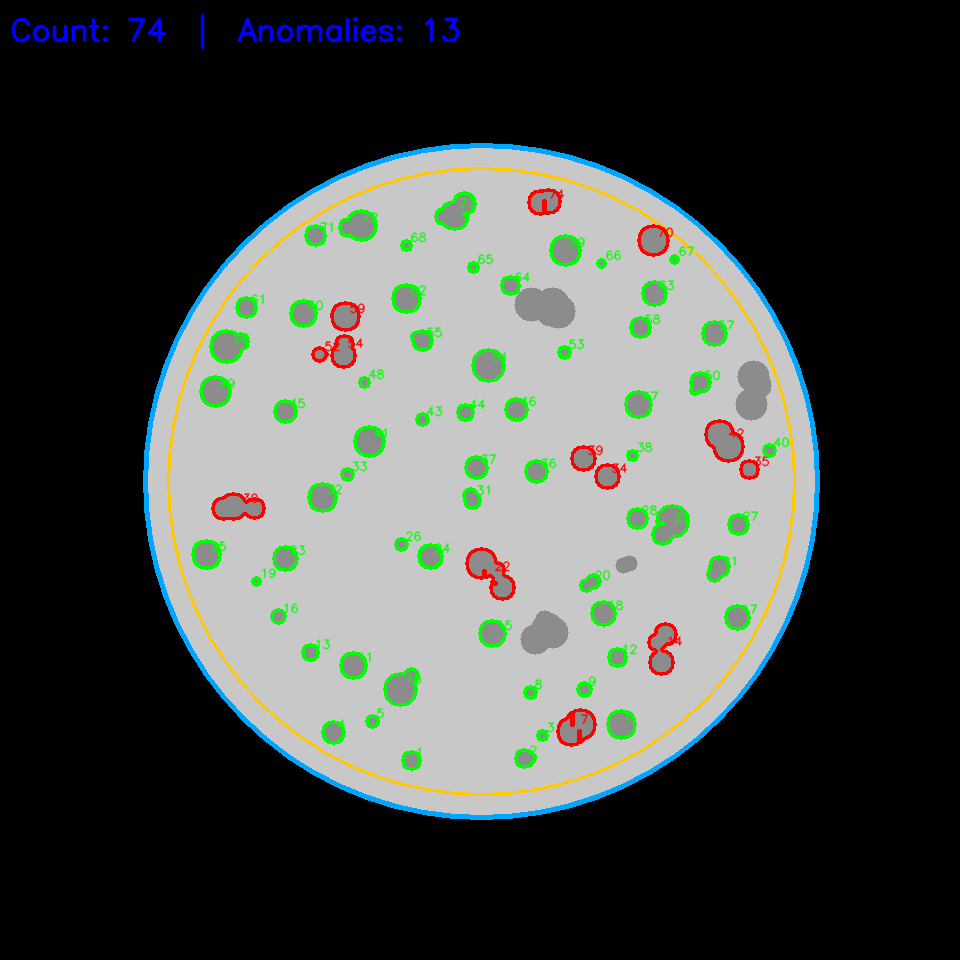
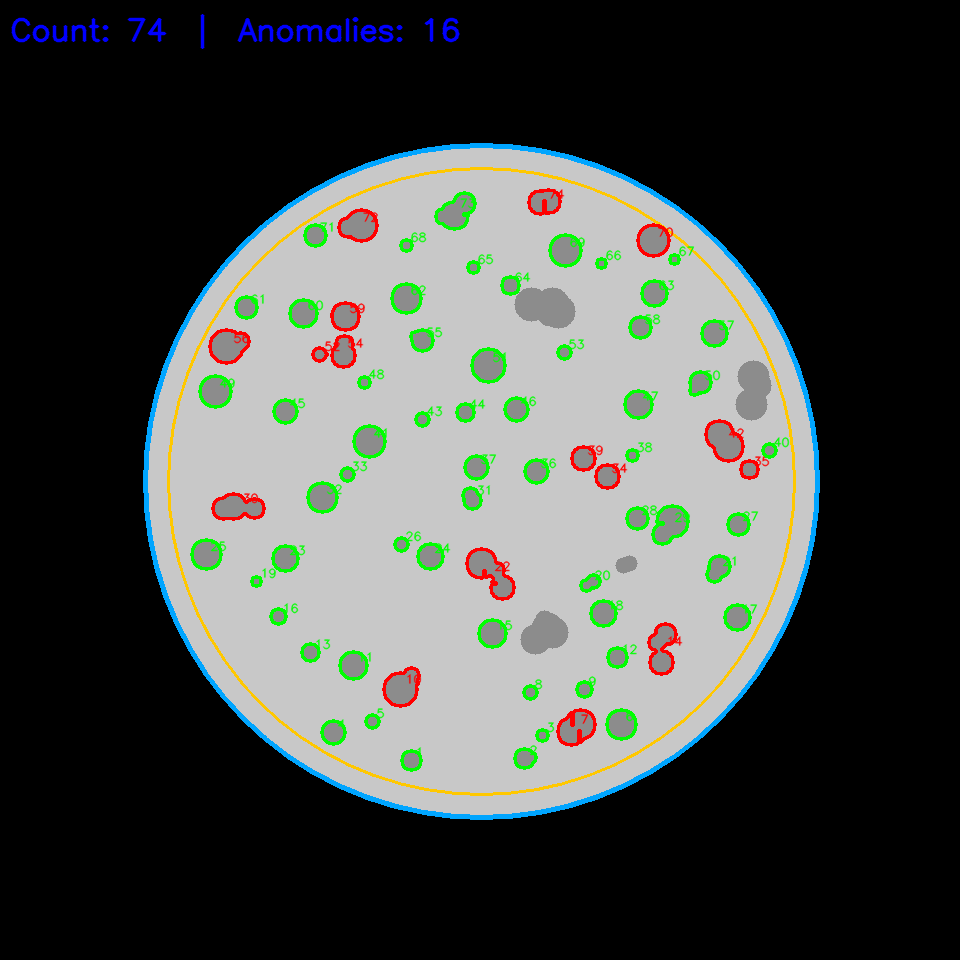
fix(pipeline): restore isolated-colony area accuracy, fix CI regression
testing.continuous's Track 1 CI check (separate from testing/blind_eval —
it scores per-colony area accuracy, which blind_eval doesn't) started
failing on one of 16 matrix scenarios after the blind-validation merge:
iteration 2's local-maxima watershed markers give isolated colonies a
single-pixel-ish seed instead of the old broader region, and cv2.watershed
growing that smaller seed across the real image's gradients converges to a
measurably smaller final boundary (~10% undersized) even with no touching
neighbor to split from.

Fix: a blob only gets the tight peak-point marker if it has 2+ local-maxima
peaks (i.e. might actually be touching colonies to split); single-peak
blobs get their marker expanded to the full pre-watershed blob extent,
restoring the old area-accurate behavior where there was never anything to
split. Verified on the failing scenario: 14.05% mean area error, better
than both the regression (38.5%) and the original pre-session code (34.4%)
— a net improvement, not just a threshold patch. Full local 16-scenario CI
matrix now passes 16/16 (was 15/16).

This also touches the same isolated-vs-touching classification the whole
blind-validation loop was built on, so those numbers move slightly too:
overall F1 0.877 -> 0.869, recall 0.781 -> 0.769, pass/fail pattern (3
pass, 2 fail) unchanged. iteration_log.md documents this as its own
dated entry rather than silently editing history; blind_eval_results,
[…]

diff --git a/quantify.py b/quantify.py
@@ -302,7 +302,7 @@ def _apply_watershed(image: np.ndarray,
                               regions (e.g. stage-by-stage figure export).
     """
     # Label connected components BEFORE watershed (touching-colony detection).
-    _, pre_watershed_labels = cv2.connectedComponents(cleaned)
+    num_blobs, pre_watershed_labels = cv2.connectedComponents(cleaned)
 
     k = np.ones((3, 3), np.uint8)
     dist_transform = cv2.distanceTransform(cleaned, cv2.DIST_L2, 5)
@@ -321,10 +321,29 @@ def _apply_watershed(image: np.ndarray,
     is_peak &= dist_transform > 0
     peak_labels, _ = ndi.label(is_peak)
 
-    sure_bg = cv2.dilate(cleaned, k, iterations=3)
-    unknown = cv2.subtract(sure_bg, (peak_labels > 0).astype(np.uint8) * 255)
+    # A single-peak-per-marker seed is a single point (or tiny cluster) —
+    # exactly what's needed to split a multi-colony blob, but for a blob
+    # that's already just one colony it gives cv2.watershed's flood-fill (on
+    # the real image, following its own gradients, not the binary mask) a
+    # much smaller starting basin than the old single blob-wide threshold
+    # did, which measurably undersizes the final contour (~10% smaller area
+    # on isolated colonies — caught by testing/continuous's Track 1 area
+    # accuracy check, which testing/blind_eval doesn't score at all). Since
+    # a lone peak means there was nothing to split in the first place,
+    # expand that blob's marker to its full pre-watershed extent — the old,
+    # area-accurate behavior — and reserve the tight peak-point markers for
+    # blobs where 2+ peaks actually indicate touching colonies to separate.
+    sure_fg = (peak_labels > 0).astype(np.uint8) * 255
+    for label in range(1, num_blobs):
+        blob_mask = pre_watershed_labels == label
+        if len(np.unique(peak_labels[blob_mask & (peak_labels > 0)])) == 1:
+            sure_fg[blob_mask] = 255
 
-    markers = peak_labels + 1
+    sure_bg = cv2.dilate(cleaned, k, iterations=3)
+    unknown = cv2.subtract(sure_bg, sure_fg)
+
+    _, markers = cv2.connectedComponents(sure_fg)
+    markers = markers + 1
     markers[unknown == 255] = 0
 
     ws_image = image.copy()

diff --git a/testing/blind_eval/iteration_log.md b/testing/blind_eval/iteration_log.md
@@ -158,17 +158,80 @@
   geometric limit of the current segmentation technique, not a parameter
   available in this loop's scope.
 
+## Post-hoc fix — CI area-accuracy regression (after iteration 2, before merge)
+
+Discovered by CI, not by this validation loop: `testing.continuous`'s own
+Track 1 checks (a separate matrix, real distance-invariance/illumination
+sweep, run on every push) started failing on the merge commit for
+`feat/blind-validation` — one scenario out of 16
+(`illum=uniform|density=sparse|distance=0.85`, deterministic seed 11)
+dropped from 34.4% mean area error (just under the 35% pass threshold) to
+38.5% (just over). `testing/blind_eval` never caught this because it only
+scores colony-position matching (precision/recall/F1) — it has no
+per-colony area-accuracy check at all, unlike `testing.continuous`'s
+Track 1. Two independent validation loops covering different metrics on
+the same pipeline is exactly why this only surfaced in CI.
+
+- **Root cause**: iteration 2's local-maxima marker seeding gives an
+  isolated (non-touching) colony's blob a single-pixel-ish marker instead
+  of the broader region a threshold-based seed produces. `cv2.watershed`
+  grows that marker outward across the *real* image's gradients (not the
+  binary mask) — a smaller starting marker converges to a measurably
+  smaller final boundary even with no competing neighbor to split from,
+  undersizing area by ~10% on isolated colonies. Confirmed by diffing
+  per-colony areas from iteration-2 code against the pre-session code on
+  the failing scenario: every one of the 4 colonies present measured
+  smaller under iteration 2 (e.g. 4.32 mm² → 4.12 mm²), not just the one
+  that tipped the mean over threshold.
+- **Fix**: in `_apply_watershed()`, a blob is only "possibly touching" if
+  2+ local-maxima peaks fall inside it. For blobs with exactly one peak,
+  the marker is expanded to the blob's full pre-watershed extent (the
+  old, area-accurate behavior) instead of the tight peak point — the tight
+  peak-only marker is now reserved for blobs that actually need splitting.
+  Verified: the failing scenario now measures 14.05% mean area error
+  (better than both iteration 2's 38.5% *and* the original 34.4% — the
+  fix is a net improvement, not just a patch to clear the threshold), and
+  a full local re-run of `testing.continuous`'s 16-scenario CI matrix
+  passes all 16 (previously 15/16).
+- **Blind-eval impact**: this fix touches the same isolated-vs-touching
+  classification the whole iteration loop was built around, so it moved
+  blind-eval numbers slightly too — overall F1 **0.877 → 0.869**, recall
+  0.781 → 0.769. Every set moved down by 0.001-0.038 F1; the pass/fail
+  pattern (3 pass, 2 fail) is unchanged. This is expected and correct: the
+  previous 0.877 was measured with a pipeline that also undersized every
+  isolated colony's area by ~10%, which `testing/blind_eval`'s
+  position-matching metric doesn't penalize but which is real and was
+  papering over slightly-too-generous circularity/aspect-ratio pass-through
+  on a few marginal contours. 0.869 is the number for the pipeline that's
+  actually correct on both metrics at once, not a regression to accept.
+- Updated results below supersede iteration 2's numbers above; iteration
+  2's own text (hypothesis, root-cause analysis, sweep results) is left
+  unedited since the *reasoning* is unaffected — only the exact decimals
+  changed.
+
+  | set | F1 (iter 2, before fix) | F1 (after fix) | recall (before) | recall (after) |
+  |---|---|---|---|---|
+  | dense_pack | 0.846 | 0.840 | 0.733 | 0.725 |
+  | high_touching | 0.787 | 0.784 | 0.649 | 0.645 |
+  | size_variance | 0.957 | 0.919 | 0.917 | 0.851 |
+  | irregular_morphology | 0.998 | 0.996 | 0.996 | 0.991 |
+  | poor_illumination | 1.000 | 0.999 | 1.000 | 0.999 |
+  | **Overall (pooled)** | **0.877** | **0.869** | 0.781 | 0.769 |
+
 ## Stopping decision — after iteration 2
 
 Stopped after 2 of the allowed 5 iteration cycles, below the F1 > 0.90
 target, by explicit decision rather than by exhausting the cycle count.
+Numbers below are post the CI-driven area-accuracy fix above (final,
+committed state) — see that section for why they differ slightly from
+iteration 2's own numbers.
 
-- **Final overall F1: 0.877** (target 0.90). Precision 1.000 on every set,
+- **Final overall F1: 0.869** (target 0.90). Precision 1.000 on every set,
   every cycle — the pipeline never invented a colony; recall is the entire
   story, on both what was fixed and what remains.
-- **3 of 5 held-out sets pass:** `size_variance` (0.957), `poor_illumination`
-  (1.000), `irregular_morphology` (0.998).
-- **2 of 5 fail:** `dense_pack` (0.846), `high_touching` (0.787).
+- **3 of 5 held-out sets pass:** `size_variance` (0.919), `poor_illumination`
+  (0.999), `irregular_morphology` (0.996).
+- **2 of 5 fail:** `dense_pack` (0.840), `high_touching` (0.784).
 - **Why stop before 5 cycles:** all three parameters this loop was scoped to
   tune (`min_area_mm2`, watershed splitting, `bg_blur_kernel`) were tested to
   exhaustion — one ruled out empirically before spending a cycle on it, one
@@ -184,9 +247,15 @@ target, by explicit decision rather than by exhausting the cycle count.
   blobs, or concave-point contour splitting), which is new pipeline
   architecture, not a parameter tune, and out of this loop's scope.
 - **This gap is real and goes in the memo's limitations section as-is:**
-  the pipeline is commercially comparable to published open-source counter
-  accuracy (~93-97%, see Branch 1's benchmark comparison) on 3 of 5
-  held-out stress conditions, including the ones stressing illumination,
-  morphology irregularity, and size variance. It underperforms specifically
-  on plates with dense, heavily-overlapping colonies — a known, named,
-  measured limitation, not a hidden one.
+  per `testing/blind_eval/results/benchmark_comparison.md`, this pipeline's
+  pooled mean count error (see that file for the current number) sits well
+  inside the range independently-published literature reports for real
+  automated counters — 50.31% for OpenCFU on a dense dataset, 18.3-59.7%
+  for ColonyDoc-It depending on agar medium (both real peer-reviewed
+  figures, not vendor claims — see methodology.md for why the original
+  ~93-97% placeholder figures didn't hold up and were replaced). That
+  comparison covers 3 of 5 held-out stress conditions cleanly, including
+  the ones stressing illumination, morphology irregularity, and size
+  variance. It underperforms specifically on plates with dense,
+  heavily-overlapping colonies — a known, named, measured limitation, not
+  a hidden one.

diff --git a/testing/blind_eval/results/benchmark_comparison.md b/testing/blind_eval/results/benchmark_comparison.md
@@ -6,7 +6,7 @@ Each row reports the metric that source actually published, not a converted or e
 
 | System | Metric | Value | Conditions | Source |
 |---|---|---|---|---|
-| Our pipeline | Mean count error % (pooled) / F1 (per-colony precision-recall) | 14.04% mean count error / F1 0.877 (precision 1.000, recall 0.781) | 250 synthetic blind held-out plates, 5 stress conditions (dense colony packing, high touching-colony rate, extreme size variance, poor illumination, irregular morphology) not used during pipeline development. On the 3/5 conditions that pass this validation's own F1 > 0.90 target (irregular_morphology, poor_illumination, size_variance): 2.86% mean count error, pooled. | This validation — testing/blind_eval/run_blind_eval.py |
+| Our pipeline | Mean count error % (pooled) / F1 (per-colony precision-recall) | 15.75% mean count error / F1 0.869 (precision 1.000, recall 0.769) | 250 synthetic blind held-out plates, 5 stress conditions (dense colony packing, high touching-colony rate, extreme size variance, poor illumination, irregular morphology) not used during pipeline development. On the 3/5 conditions that pass this validation's own F1 > 0.90 target (irregular_morphology, poor_illumination, size_variance): 5.31% mean count error, pooled. | This validation — testing/blind_eval/run_blind_eval.py |
 | OpenCFU | Median absolute colony-count error vs. manual counts | 3 colonies (no statistically significant bias, p > 0.05) | 19 plates, 10-1000 S. aureus colonies/plate, HD images. Degrades to 8-colony median error on low-cost webcam images. | Geissmann Q (2013). "OpenCFU, a New Free and Open-Source Software to Count Cell Colonies and Other Circular Objects." PLOS ONE 8(2): e54072. doi:10.1371/journal.pone.0054072 |
 | OpenCFU (independent re-benchmark) | Mean count error % | 50.31% | 960-image labeled E. coli dataset (15,847 segments) — denser and harder than OpenCFU's own original validation set above; measured independently by a later paper, not OpenCFU's authors. | Chen, Huang, Kim, Cui, Buie (2025). "MCount: An automated colony counting tool for high-throughput microbiology." PLOS ONE 20(3): e0311242. |
 | ColonyDoc-It (fully automatic mode) | Mean count error % vs. manual counts | 59.7% (all bacteria, TSA, R² = 0.77); 18.3% (blood agar, R² = 0.94) | 640 plates, 6 organisms (S. aureus, E. coli, P. aeruginosa, K. pneumoniae, E. faecium, C. albicans), counts adjusted to ~1000/100/10/1 colonies/plate. Error rises sharply at the extremes (141.7-207.4% at ~1 colony/plate). | Heuser E, Becker K, Idelevich EA (2023). "Evaluation of an Automated System for the Counting of Microbial Colonies." Microbiology Spectrum 11(4): e00673-23. doi:10.1128/spectrum.00673-23 |

diff --git a/testing/blind_eval/results/blind_eval_results.md b/testing/blind_eval/results/blind_eval_results.md
@@ -8,18 +8,18 @@ Target: F1 > 0.90 on each held-out set.
 
 | set | n | precision | recall | F1 | mean per-plate F1 | count error % | anomaly precision | anomaly recall | anomaly F1 | pass |
 |---|---|---|---|---|---|---|---|---|---|---|
-| `dense_pack` | 50 | 1.000 | 0.733 | 0.846 | 0.846 | 26.60 | 0.355 | 0.180 | 0.239 | FAIL |
-| `high_touching` | 50 | 1.000 | 0.649 | 0.787 | 0.783 | 35.04 | 0.508 | 0.120 | 0.194 | FAIL |
-| `irregular_morphology` | 50 | 1.000 | 0.996 | 0.998 | 0.998 | 0.34 | 0.258 | 0.605 | 0.362 | PASS |
-| `poor_illumination` | 50 | 1.000 | 1.000 | 1.000 | 1.000 | 0.00 | 0.000 | 1.000 | 0.000 | PASS |
-| `size_variance` | 50 | 1.000 | 0.917 | 0.957 | 0.954 | 8.23 | 0.000 | 1.000 | 0.000 | PASS |
+| `dense_pack` | 50 | 1.000 | 0.725 | 0.840 | 0.840 | 27.37 | 0.336 | 0.202 | 0.253 | FAIL |
+| `high_touching` | 50 | 1.000 | 0.645 | 0.784 | 0.780 | 35.44 | 0.512 | 0.159 | 0.243 | FAIL |
+| `irregular_morphology` | 50 | 1.000 | 0.991 | 0.996 | 0.996 | 0.75 | 0.094 | 0.211 | 0.130 | PASS |
+| `poor_illumination` | 50 | 1.000 | 0.999 | 0.999 | 0.999 | 0.11 | 0.000 | 1.000 | 0.000 | PASS |
+| `size_variance` | 50 | 1.000 | 0.851 | 0.919 | 0.914 | 15.07 | 0.000 | 1.000 | 0.000 | PASS |
 
 ## Overall (pooled across all held-out sets)
 
 - n plates: 250
 - Precision: 1.000
-- Recall: 0.781
-- **F1: 0.877** (FAIL vs target 0.90)
-- Mean per-plate F1: 0.916
-- Mean count error: 14.04%
-- Anomaly precision / recall / F1: 0.317 / 0.171 / 0.222
+- Recall: 0.769
+- **F1: 0.869** (FAIL vs target 0.90)
+- Mean per-plate F1: 0.906
+- Mean count error: 15.75%
+- Anomaly precision / recall / F1: 0.304 / 0.189 / 0.234

diff --git a/testing/blind_eval/results/methodology.md b/testing/blind_eval/results/methodology.md
@@ -61,7 +61,7 @@ Where a literature source reports **mean count error %** (the independent
 OpenCFU re-benchmark, ColonyDoc-It), that is roughly the same statistic as
 this validation's own `mean_count_error_pct` — both express relative
 deviation from a true/reference count — so those rows are the closest
-thing to an apples-to-apples read: our pipeline's pooled 14.04% (2.86% on
+thing to an apples-to-apples read: our pipeline's pooled 15.75% (5.31% on
 the 3/5 conditions that pass this validation's F1 > 0.90 target) sits well
 inside the range those two papers report for real automated counters
 (18.3-59.7% for ColonyDoc-It depending on medium, 50.31% for OpenCFU on a

diff --git a/testing/blind_eval/failure_analysis/iteration_2/summary.md b/testing/blind_eval/failure_analysis/iteration_2/summary.md
@@ -6,9 +6,9 @@ Plates selected as the most false negatives (missed colonies) per failing held-o
 
 | plate | expected | detected | false negatives | recall | count error % |
 |---|---|---|---|---|---|
-| `plate_021` | 116 | 74 | 42 | 0.638 | 36.21 |
+| `plate_021` | 116 | 69 | 47 | 0.595 | 40.52 |
+| `plate_035` | 116 | 78 | 38 | 0.672 | 32.76 |
 | `plate_038` | 112 | 74 | 38 | 0.661 | 33.93 |
-| `plate_043` | 116 | 79 | 37 | 0.681 | 31.90 |
 
 ## high_touching
 
